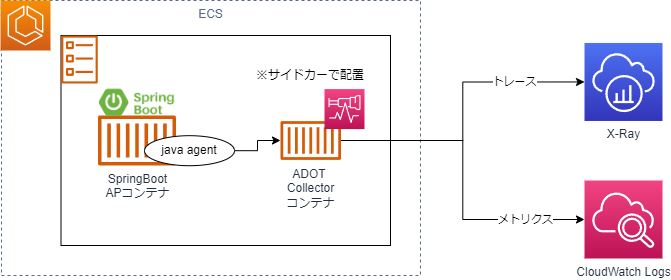
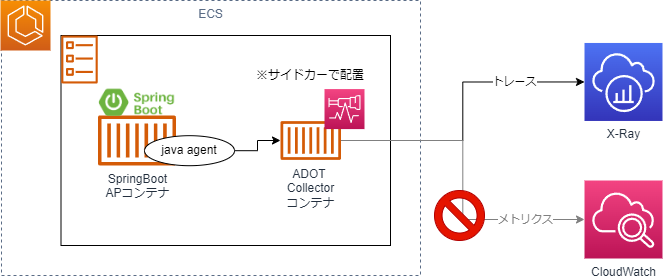
README修正

diff --git a/README.md b/README.md
@@ -45,7 +45,8 @@
 * X-Rayによる分散トレーシング・可視化
     * ADOT（AWS Distro for OpenTelemetry）を使って、X-RayによりアプリケーションやAWSサービス間の処理の流れをトレースし、可視化に対応。
     * ADOT Collectorをサイドカーコンテナとして配置。
-        * ADOTの場合、X-Rayのトレース情報だけでなく、StatsDのメトリックスもCloudWatchへ転送される。
+        * ~~ADOTの場合、X-Rayのトレース情報だけでなく、StatsDのメトリックスもCloudWatchへ転送される。~~
+        * この例では、ADOTのデフォルトではCloudWatchに転送されるCメトリックスについては不要として、エージェントおよびコレクタで転送を無効化している
 ![X-Ray](img/xray.png)
     * X-Rayによる可視化
 ![X-Ray可視化](img/xray-visualization.png)
